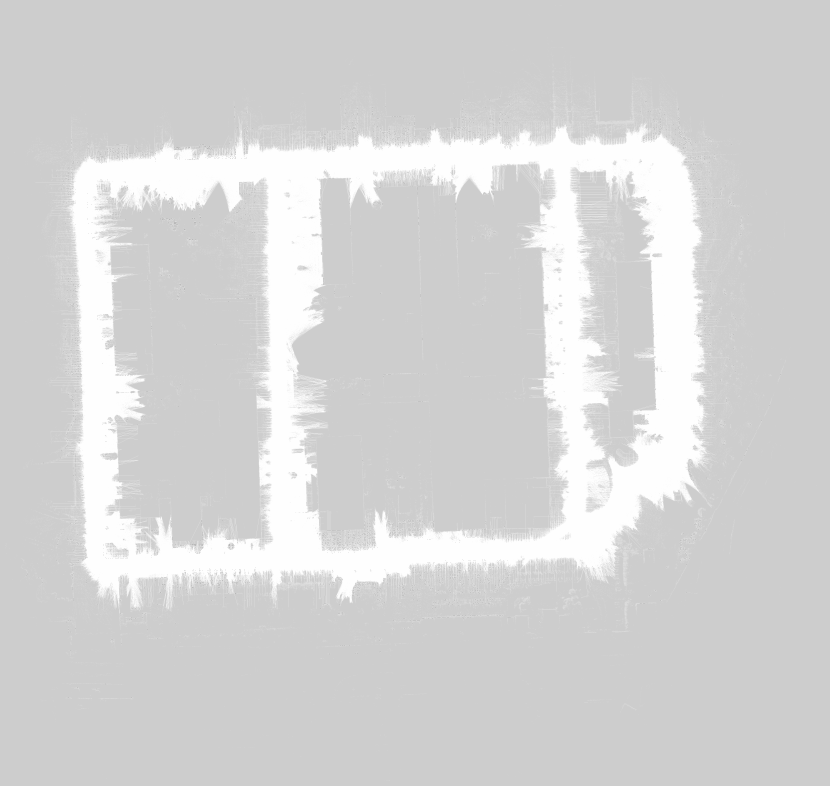
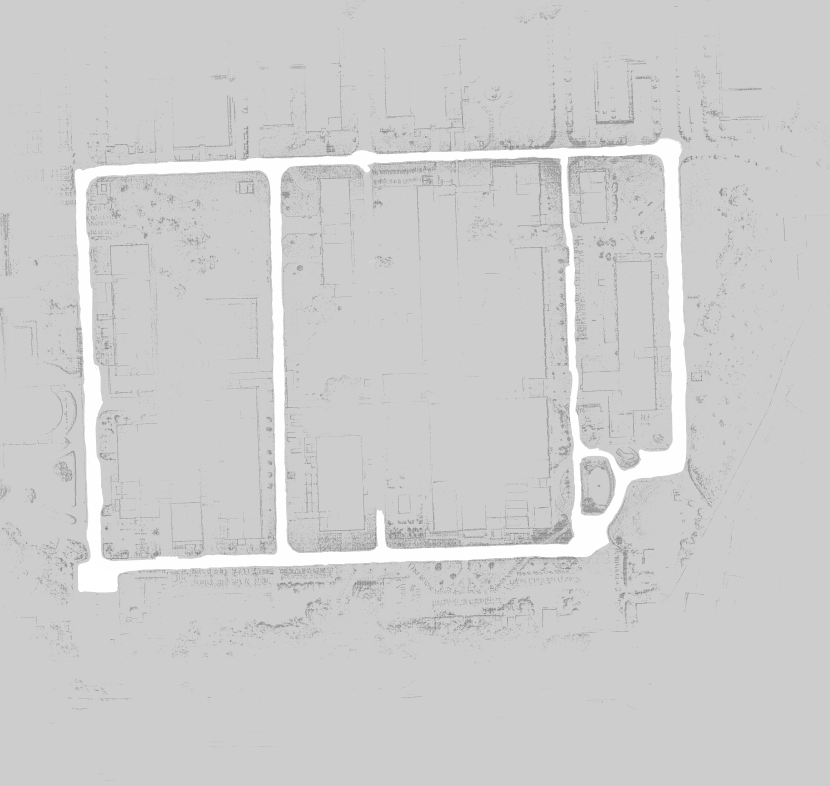
fix(m7): Web 地図背景が旧 cleaned マップになっていた事故の修正 + スクリプトの罠を除去
2026-07-22 の map.png 再生成 (54ce32b) で --yaml occupancy_v2.yaml のみを
渡したところ、m7_make_web_map.py は yaml をメタデータにしか使わず、画像は
旧既定の occupancy_cleaned.pgm を描画していた。結果、iPad の背景地図が
丸ごと旧マップ (メタデータだけ v2) に差し替わっていた。実機で「地図が
v2 以前の古いものに見える (が正門は写る = 旧 raw でも FREE)」として発覚。

- map.png / map_meta.json を v2/final.pgm から再生成 (final 縮小との画素
  差分 mean 0.65 = 縮小方式差のみ、目視でも一致確認済)
- スクリプトの --pgm 既定を「--yaml の image: を yaml ディレクトリ相対で
  解決」(map_server と同じ規約) に変更。yaml と画像が別ソースになる罠を
  根絶し、--pgm は明示 override 専用に残す
- app.js の FREE ゲート (閾値 230) は v2 のヒストグラム前提なので、
  背景差し替えは表示だけでなくタップ判定の正しさにも影響していた

Changed region(s): [[0.0602, 0.1221, 0.8735, 0.8244], [0.8133, 0.6718, 0.8434, 0.7023], [0.0, 0.2748, 0.0301, 0.3053]]

diff --git a/scripts/m7_make_web_map.py b/scripts/m7_make_web_map.py
@@ -22,11 +22,18 @@ small png with res_eff written into the json — no separate scale needed.
 Idempotent: re-running overwrites both outputs. Safe to re-run whenever the
 cleaned map is regenerated (Task #14 v2 map, etc.).
 
+The pgm defaults to the `image:` referenced by --yaml (resolved relative to
+the yaml's directory), so passing --yaml alone is always self-consistent.
+2026-07-22: --yaml occupancy_v2.yaml だけを渡した再生成が、旧既定の
+occupancy_cleaned.pgm を描画してしまい、iPad の背景地図が丸ごと旧マップに
+差し替わる事故が起きた (メタデータだけ v2 という最悪の組み合わせ)。yaml と
+画像を別々に既定させる設計が原因なので、既定を「yaml に従う」に変更した。
+--pgm は意図的に別画像を重ねたい場合の明示 override としてのみ残す。
+
 Usage:
-    python3 scripts/m7_make_web_map.py
+    python3 scripts/m7_make_web_map.py --yaml docs/maps/campus/occupancy_v2.yaml
     python3 scripts/m7_make_web_map.py --factor 8
     python3 scripts/m7_make_web_map.py \\
-        --pgm docs/maps/campus/occupancy_cleaned.pgm \\
         --yaml docs/maps/campus/occupancy_cleaned.yaml \\
         --out-dir src/whill_dispatch/web
 """
@@ -49,8 +56,10 @@ def main():
     ap = argparse.ArgumentParser(description=__doc__)
     ap.add_argument(
         '--pgm',
-        default=os.path.join(
-            _REPO_ROOT, 'docs', 'maps', 'campus', 'occupancy_cleaned.pgm'))
+        default=None,
+        help='explicit pgm override. Default: the image: referenced by '
+             '--yaml, resolved relative to the yaml directory (keeps '
+             'metadata and pixels from the same map — see header).')
     ap.add_argument(
         '--yaml',
         default=os.path.join(
@@ -68,6 +77,11 @@ def main():
         meta = yaml.safe_load(f)
     res = float(meta['resolution'])
     origin = [float(v) for v in meta['origin']]
+
+    if args.pgm is None:
+        # map_server と同じ規約: image は yaml のディレクトリ相対。
+        args.pgm = os.path.join(os.path.dirname(os.path.abspath(args.yaml)),
+                                meta['image'])
 
     img = Image.open(args.pgm)
     w, h = img.size
